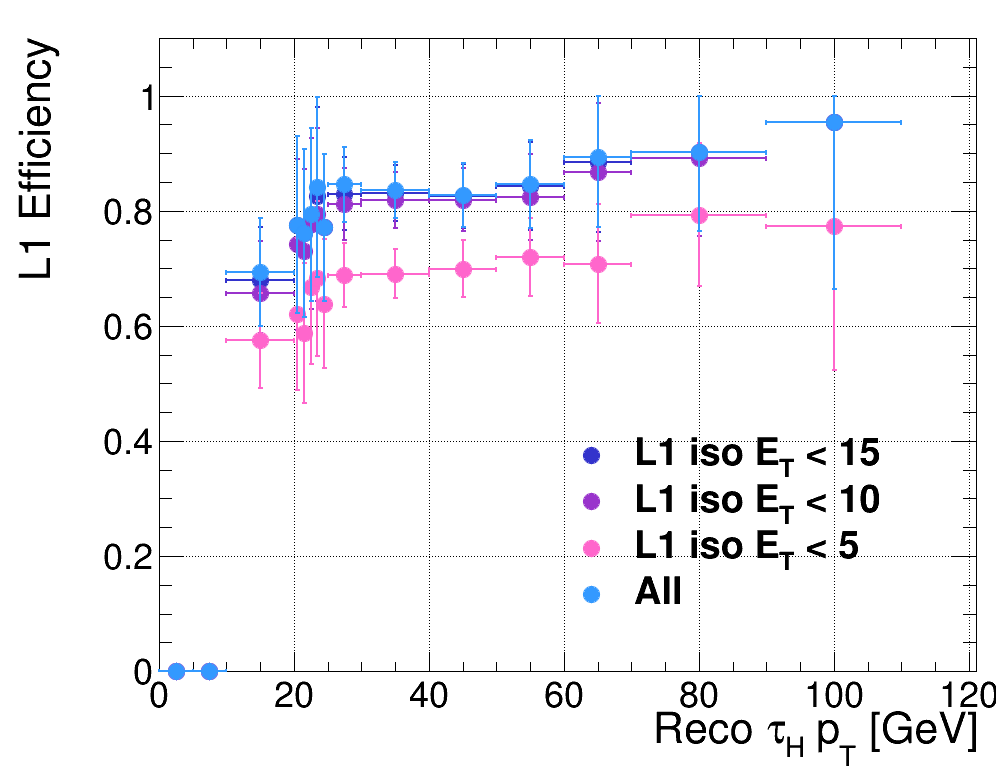
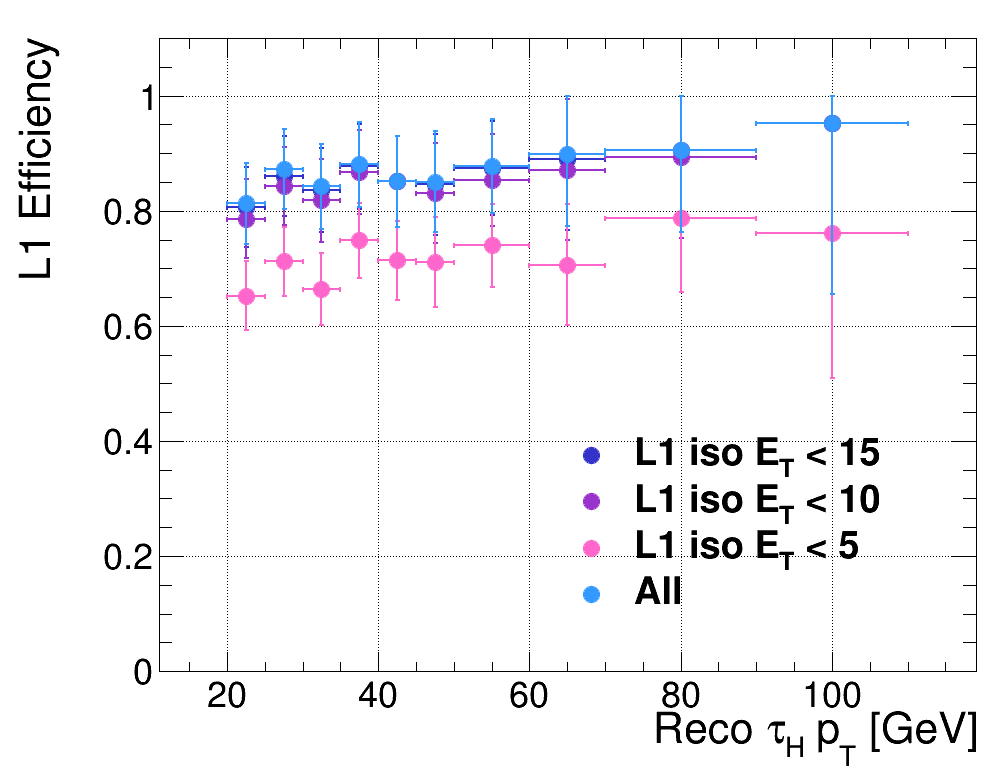
Add abs(eta) cut to efficiency plots

diff --git a/efficiencyPlots/makeEfficienciesPlot.cpp b/efficiencyPlots/makeEfficienciesPlot.cpp
@@ -36,8 +36,8 @@ void makeEfficienciesPlot(void)
 
   xMin = 0;
   xMax = 100;
-  recoCut = "recoTauPt>10 && genTauPt>10 && genTauDM>9";
-  l1Cut   = "recoTauPt>10 && genTauPt>10 && genTauDM>9 && l1TauPt>0";
+  recoCut = "recoTauPt>10 && genTauPt>10 && genTauDM>9 && abs(recoTauEta)<2.1";
+  l1Cut   = "recoTauPt>10 && genTauPt>10 && genTauDM>9 && abs(recoTauEta)<2.1 && l1TauPt>0";
 
   TGraphAsymmErrors* recoTauPtLoose = calculateEfficiency("recoTauPt", treePath, rootFileDirectory,
 							  l1Cut + "&& l1IsoEt < 15",
@@ -79,8 +79,8 @@ void makeEfficienciesPlot(void)
   xMin = -3;
   xMax = 3;
   
-  recoCut = "recoTauPt>10 && genTauPt>20 && genTauDM>9";
-  l1Cut   = "recoTauPt>10 && genTauPt>20 && genTauDM>9 && l1TauPt>0";
+  recoCut = "recoTauPt>10 && genTauPt>10 && genTauDM>9 && abs(recoTauEta)<2.1";
+  l1Cut   = "recoTauPt>10 && genTauPt>10 && genTauDM>9 && abs(recoTauEta)<2.1 && l1TauPt>0";
 
   vGraphs.clear();  vLabels.clear();  vColors.clear();
 
@@ -118,7 +118,98 @@ void makeEfficienciesPlot(void)
 		    "efficiency_recoEta_fullDetector.png",        
 		    outputDirectory);    
 
+
+
+  /*******************************************************/
+  /* efficiency as a function of recoPt                  */
+  /*******************************************************/
+
+  vGraphs.clear();  vLabels.clear();  vColors.clear();
+  
+  xMin = 10;
+  xMax = 110;
+  
+  recoCut = "recoTauPt>10 && genTauPt>10 && genTauDM>9 && abs(recoTauEta)<2.1";
+  l1Cut   = "recoTauPt>10 && genTauPt>10 && genTauDM>9 && abs(recoTauEta)<2.1";
+  
+  //
+  TGraphAsymmErrors* recoPtInclusive30 = calculateEfficiency("recoTauPt", treePath, rootFileDirectory,
+							     l1Cut + "&& l1TauPt>30",
+							     recoCut + "&& recoTauPt>30", 
+							     xMin, xMax, true);
+  vGraphs.push_back(recoPtInclusive30);
+  vLabels.push_back("Inclusive, E_{T}^{#tau, L1} > 30 GeV");
+  vColors.push_back(kBlack);
+
+  // 
+  TGraphAsymmErrors* recoPtInclusive34 = calculateEfficiency("recoTauPt", treePath, rootFileDirectory,
+                                                             l1Cut + "&& l1TauPt>34",
+                                                             recoCut + "&& recoTauPt>34",
+                                                             xMin, xMax, true);
+  vGraphs.push_back(recoPtInclusive34);
+  vLabels.push_back("Inclusive, E_{T}^{#tau, L1} > 34 GeV");
+  vColors.push_back(kRed);
+
+  TGraphAsymmErrors* recoPtInclusive38 =calculateEfficiency("recoTauPt", treePath, rootFileDirectory,
+							    l1Cut + "&& l1TauPt>38",
+							    recoCut + "&& recoTauPt>38",
+							    xMin, xMax, true);
+  vGraphs.push_back(recoPtInclusive38);
+  vLabels.push_back("Inclusive, E_{T}^{#tau, L1} > 38 GeV");
+  vColors.push_back(kBlue);
+
+  // Plot
+  plotNEfficiencies(vGraphs, vLabels, vColors,
+                    "Reco #tau_{H} p_{T} [GeV]",
+                    "Run II L1 Taus",
+                    "efficiency_recoPt_twiki.png",
+                    outputDirectory);
+
+  /*******************************************************/
+  /* efficiency as a function of recoEta (DPG)           */
+  /*******************************************************/
+
+  vGraphs.clear();  vLabels.clear();  vColors.clear();
+  
+  xMin = -3;
+  xMax = 3;
+
+  recoCut = "recoTauPt>10 && genTauPt>10 && genTauDM>9 && abs(recoTauEta)<2.1";
+  l1Cut   = "recoTauPt>10 && genTauPt>10 && genTauDM>9 && abs(recoTauEta)<2.1";
+  
+  //
+  TGraphAsymmErrors* recoEtaInclusive30 = calculateEfficiency("recoTauEta", treePath, rootFileDirectory,
+							     l1Cut + "&& l1TauPt>30",
+							     recoCut + "&& recoTauPt>30", 
+							     xMin, xMax, false);
+  vGraphs.push_back(recoEtaInclusive30);
+  vLabels.push_back("Inclusive, E_{T}^{#tau, L1} > 30 GeV");
+  vColors.push_back(kBlack);
+
+  // 
+  TGraphAsymmErrors* recoEtaInclusive34 = calculateEfficiency("recoTauEta", treePath, rootFileDirectory,
+                                                             l1Cut + "&& l1TauPt>34",
+                                                             recoCut + "&& recoTauPt>34",
+                                                             xMin, xMax, false);
+  vGraphs.push_back(recoEtaInclusive34);
+  vLabels.push_back("Inclusive, E_{T}^{#tau, L1} > 34 GeV");
+  vColors.push_back(kRed);
+
+  TGraphAsymmErrors* recoEtaInclusive38 = calculateEfficiency("recoTauEta", treePath, rootFileDirectory,
+							      l1Cut + "&& l1TauPt>38",
+							      recoCut + "&& recoTauPt>38",
+							      xMin, xMax, false);
+  vGraphs.push_back(recoEtaInclusive38);
+  vLabels.push_back("Inclusive, E_{T}^{#tau, L1} > 38 GeV");
+  vColors.push_back(kBlue);
+
+  // Plot
+  plotNEfficiencies(vGraphs, vLabels, vColors,
+                    "Reco #tau_{H} #eta",
+                    "Run II L1 Taus",
+                    "efficiency_recoEta_twiki.png",
+                    outputDirectory);
+
+  
 }
-
-
 /*********************************************************************/

diff --git a/test/test-Analyzer.py b/test/test-Analyzer.py
@@ -25,7 +25,7 @@ process.load("L1Trigger.Run2Ntuplizer.l1TRun2Ntuplizer_cfi")
 process.l1NtupleProducer.isData = cms.bool(False)
 
 process.maxEvents = cms.untracked.PSet(
-    input = cms.untracked.int32(-1)
+    input = cms.untracked.int32(200)
 )
 
 # Input source
@@ -110,3 +110,22 @@ process = customiseEarlyDelete(process)
 
 dump_file = open('dump.py','w')
 dump_file.write(process.dumpPython())
+
+
+
+# TEMPORARY: testing batch job submission
+process.source.secondaryFileNames = cms.untracked.vstring( 
+ "root://cms-xrd-global.cern.ch//store/mc/RunIISpring15DR74/GluGluHToTauTau_M125_13TeV_powheg_pythia8/GEN-SIM-RAW/AsymptFlat10to50bx25Raw_MCRUN2_74_V9-v1/50000/021091E2-0740-E511-AC34-0025905A60AA.root") 
+process.source.lumisToProcess = cms.untracked.VLuminosityBlockRange("1:4172","1:4192","1:3008","1:3011","1:4173","1:5238","1:3010","1:4193","1:5276","1:3009","1:5275","1:5277")
+
+
+process.source.fileNames = cms.untracked.vstring( 
+ 'root://cmsxrootd.fnal.gov//store/mc/RunIISpring15MiniAODv2/GluGluHToTauTau_M125_13TeV_powheg_pythia8/MINIAODSIM/AsymptFlat10to50bx25Raw_74X_mcRun2_asymptotic_v2-v1/80000/FE23B380-E67C-E511-81CE-0030487BB7E4.root',
+'root://cmsxrootd.fnal.gov//store/mc/RunIISpring15MiniAODv2/GluGluHToTauTau_M125_13TeV_powheg_pythia8/MINIAODSIM/AsymptFlat10to50bx25Raw_74X_mcRun2_asymptotic_v2-v1/80000/F0BA0870-E67C-E511-9167-20CF305B05A8.root',
+'root://cmsxrootd.fnal.gov//store/mc/RunIISpring15MiniAODv2/GluGluHToTauTau_M125_13TeV_powheg_pythia8/MINIAODSIM/AsymptFlat10to50bx25Raw_74X_mcRun2_asymptotic_v2-v1/80000/EA39F988-E67C-E511-AFF2-003048335548.root',
+'root://cmsxrootd.fnal.gov//store/mc/RunIISpring15MiniAODv2/GluGluHToTauTau_M125_13TeV_powheg_pythia8/MINIAODSIM/AsymptFlat10to50bx25Raw_74X_mcRun2_asymptotic_v2-v1/80000/BED62419-E77C-E511-8ED8-002590D9D822.root',
+'root://cmsxrootd.fnal.gov//store/mc/RunIISpring15MiniAODv2/GluGluHToTauTau_M125_13TeV_powheg_pythia8/MINIAODSIM/AsymptFlat10to50bx25Raw_74X_mcRun2_asymptotic_v2-v1/80000/6C832D70-E67C-E511-A550-20CF305B05A8.root',
+'root://cmsxrootd.fnal.gov//store/mc/RunIISpring15MiniAODv2/GluGluHToTauTau_M125_13TeV_powheg_pythia8/MINIAODSIM/AsymptFlat10to50bx25Raw_74X_mcRun2_asymptotic_v2-v1/80000/629D1870-E67C-E511-8044-20CF305B05A8.root',
+'root://cmsxrootd.fnal.gov//store/mc/RunIISpring15MiniAODv2/GluGluHToTauTau_M125_13TeV_powheg_pythia8/MINIAODSIM/AsymptFlat10to50bx25Raw_74X_mcRun2_asymptotic_v2-v1/80000/14420E8D-E67C-E511-B7CB-00304867FD77.root',
+'root://cmsxrootd.fnal.gov//store/mc/RunIISpring15MiniAODv2/GluGluHToTauTau_M125_13TeV_powheg_pythia8/MINIAODSIM/AsymptFlat10to50bx25Raw_74X_mcRun2_asymptotic_v2-v1/80000/122332F8-E67C-E511-977F-003048D334C7.root'
+)

diff --git a/efficiencyPlots/calculateEfficiency.cpp b/efficiencyPlots/calculateEfficiency.cpp
@@ -87,7 +87,7 @@ TGraphAsymmErrors* calculateEfficiency(TString variable,
   TH1F* Denom;
   int bins = 15;
   // Float_t xbins[10] = {0, 5, 10, 20, 25, 30, 50, 70, 100, 200};
-  Float_t xbins[16] = {0, 5, 10, 20, 21, 22, 23, 24, 25, 30, 40, 50, 60, 70, 90, 110};
+  Float_t xbins[11] = {20, 25, 30, 35, 40, 45, 50, 60, 70, 90, 110};
   int nVarBins = (int) sizeof(xbins)/sizeof(xbins[0]) - 1;
 
   if(variableBin)
